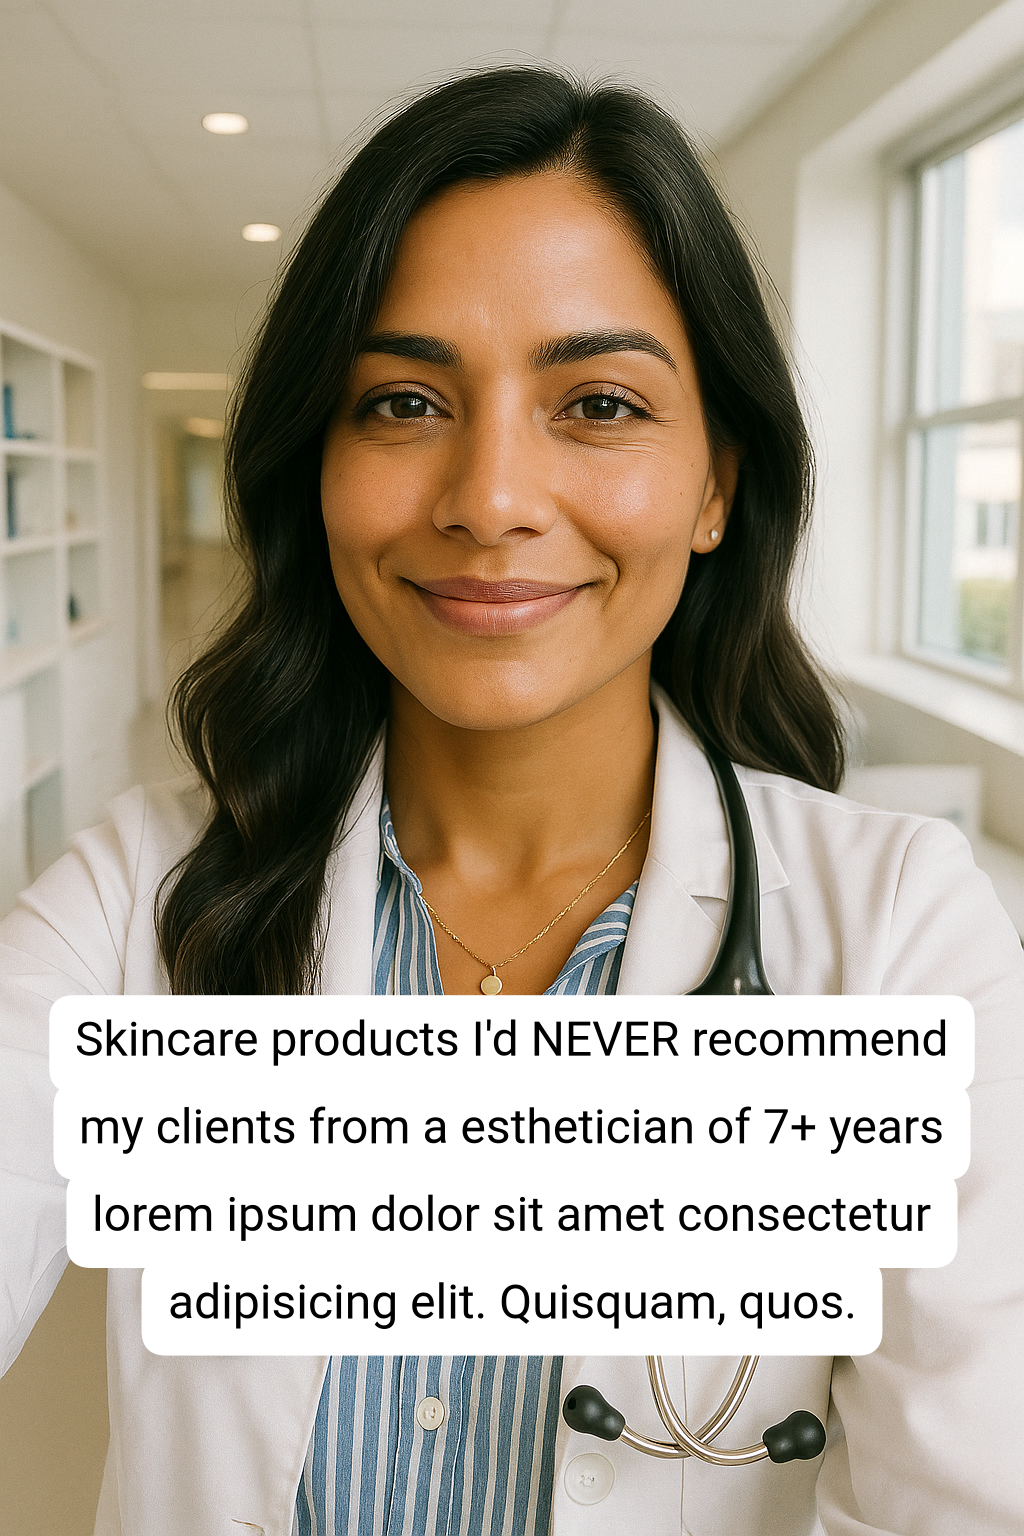
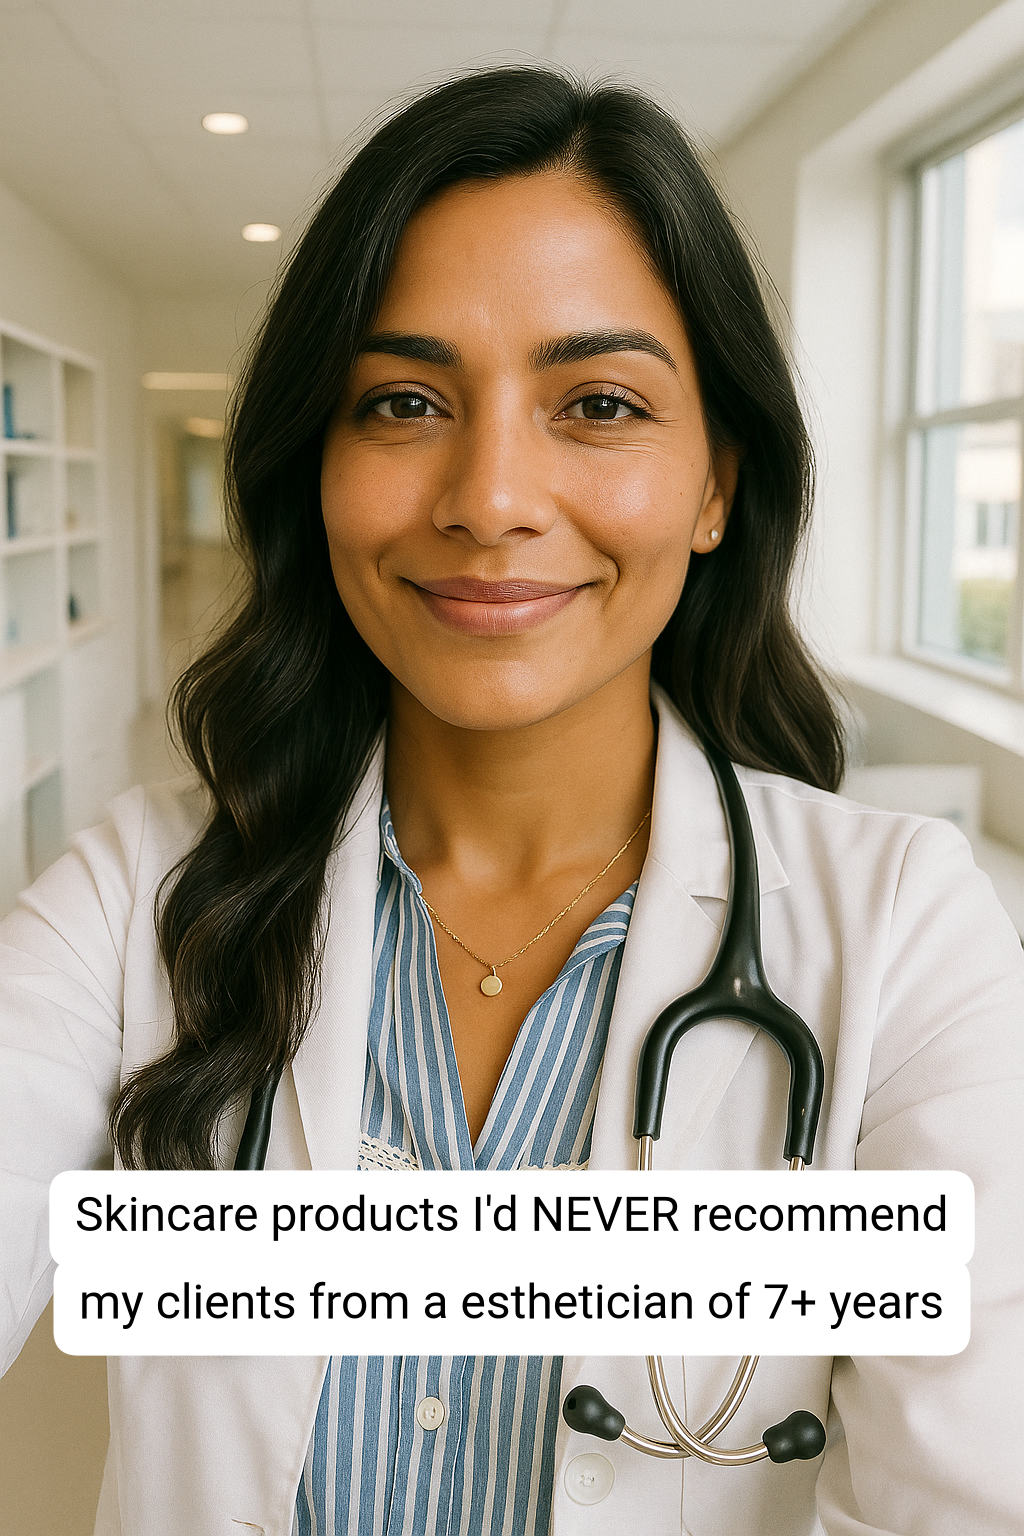
Limit text overlay lines to a maximum of 4 words and update test text for clarity in TikTok text overlay test.

Changed region(s): [[0.0312, 0.625, 0.9688, 0.9062]]

diff --git a/text-overlay-test.js b/text-overlay-test.js
@@ -350,7 +350,7 @@ async function runTest() {
   // Test configuration
   const testImage = "file.png";
   const testText =
-    "Skincare products I'd NEVER recommend my clients from a esthetician of 7+ years lorem ipsum dolor sit amet consectetur adipisicing elit. Quisquam, quos.";
+    "Skincare products I'd NEVER recommend my clients from a esthetician of 7+ years";
 
   try {
     // Set position to bottom (most common for TikTok)
